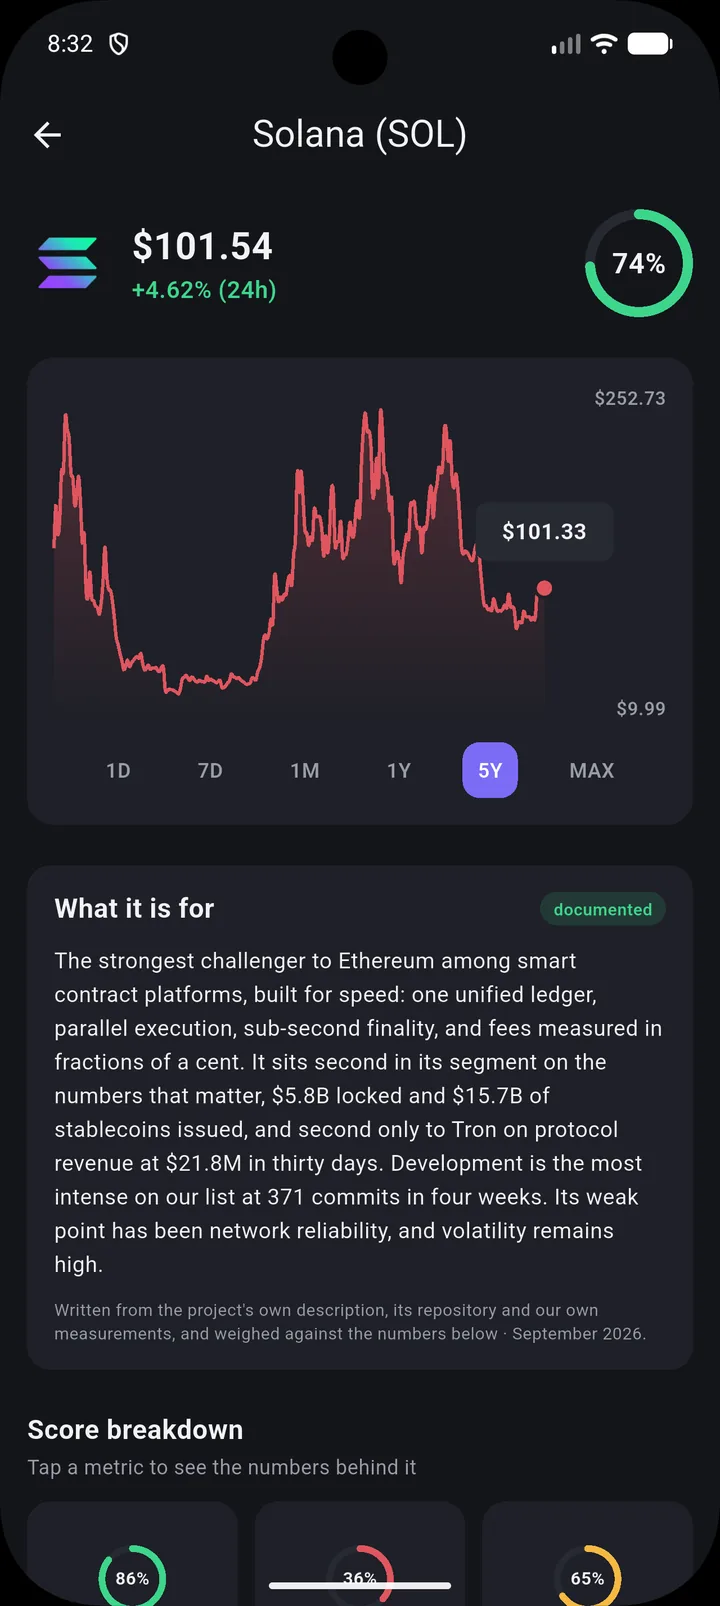
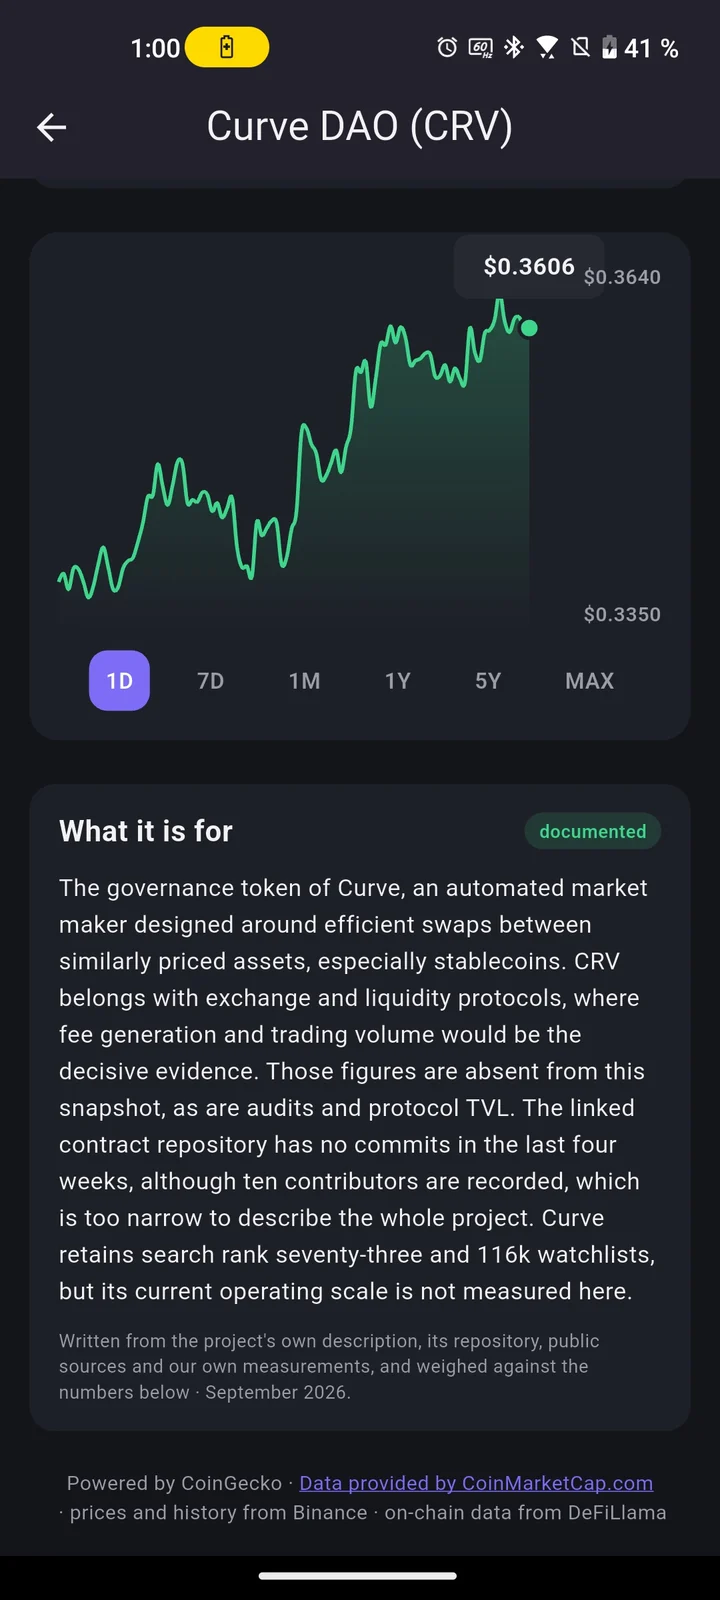
New CmA screenshots: Radar, coin detail and home-screen widgets

diff --git a/index.html b/index.html
@@ -1449,6 +1449,8 @@
 
     /* these frames hold one still shot each - no crossfade to wait for */
     .appblock-shots .phone-screen img { opacity: 1; transition: none; }
+    /* a crossfading pair starts hidden, the animation brings each one in */
+    .appblock-shots .shot-cycle img { opacity: 0; }
 
     .appblock-shot figcaption {
         font-size: 12.5px;
@@ -2217,16 +2219,16 @@
                     </div>
                     <div class="appblock-shots">
                         <figure class="appblock-shot reveal">
-                            <div class="phone-frame"><div class="phone-screen"><img src="assets/cma-shot-list.webp" alt="CmA coin list with the Fear and Greed index and a score ring next to every coin" width="720" height="1606" loading="lazy"></div></div>
-                            <figcaption>The whole market, sorted by market cap, CmA score or 24h change.</figcaption>
+                            <div class="phone-frame"><div class="phone-screen"><img src="assets/cma-shot-list.webp" alt="CmA coin list with the Fear and Greed index and a Radar score ring next to every coin" width="720" height="1600" loading="lazy"></div></div>
+                            <figcaption>The whole market, sorted by market cap, Radar score or 24h change.</figcaption>
                         </figure>
                         <figure class="appblock-shot raised reveal">
-                            <div class="phone-frame"><div class="phone-screen"><img src="assets/cma-shot-detail.webp" alt="CmA coin detail with a price chart and a plain-language note on what the project is for" width="720" height="1606" loading="lazy"></div></div>
-                            <figcaption>Live price, history from a day to all-time, and what the project is actually for.</figcaption>
+                            <div class="phone-frame"><div class="phone-screen"><div class="shot-cycle"><img src="assets/cma-shot-radar.webp" alt="CmA Fundamental Radar for Solana with its score and the metrics behind it" width="720" height="1600" loading="lazy"><img src="assets/cma-shot-detail.webp" alt="CmA coin detail with a price chart and a plain-language note on what the project is for" width="720" height="1600" loading="lazy"></div></div></div>
+                            <figcaption>The Fundamental Radar behind every score, live price history and what the project is actually for.</figcaption>
                         </figure>
                         <figure class="appblock-shot reveal">
-                            <div class="phone-frame"><div class="phone-screen"><img src="assets/cma-shot-breakdown.webp" alt="CmA score breakdown showing all fourteen metrics with their weights" width="720" height="1606" loading="lazy"></div></div>
-                            <figcaption>The full breakdown - every metric, its weight and the numbers behind it.</figcaption>
+                            <div class="phone-frame"><div class="phone-screen"><div class="shot-cycle"><img src="assets/cma-shot-widget.webp" alt="CmA home-screen widget with live prices for a watchlist of coins" width="720" height="1600" loading="lazy"><img src="assets/cma-shot-widget-2.webp" alt="CmA home-screen widget with the Solana price chart" width="720" height="1600" loading="lazy"></div></div></div>
+                            <figcaption>Home-screen widgets - a watchlist of prices or one coin's chart.</figcaption>
                         </figure>
                     </div>
                 </div>
